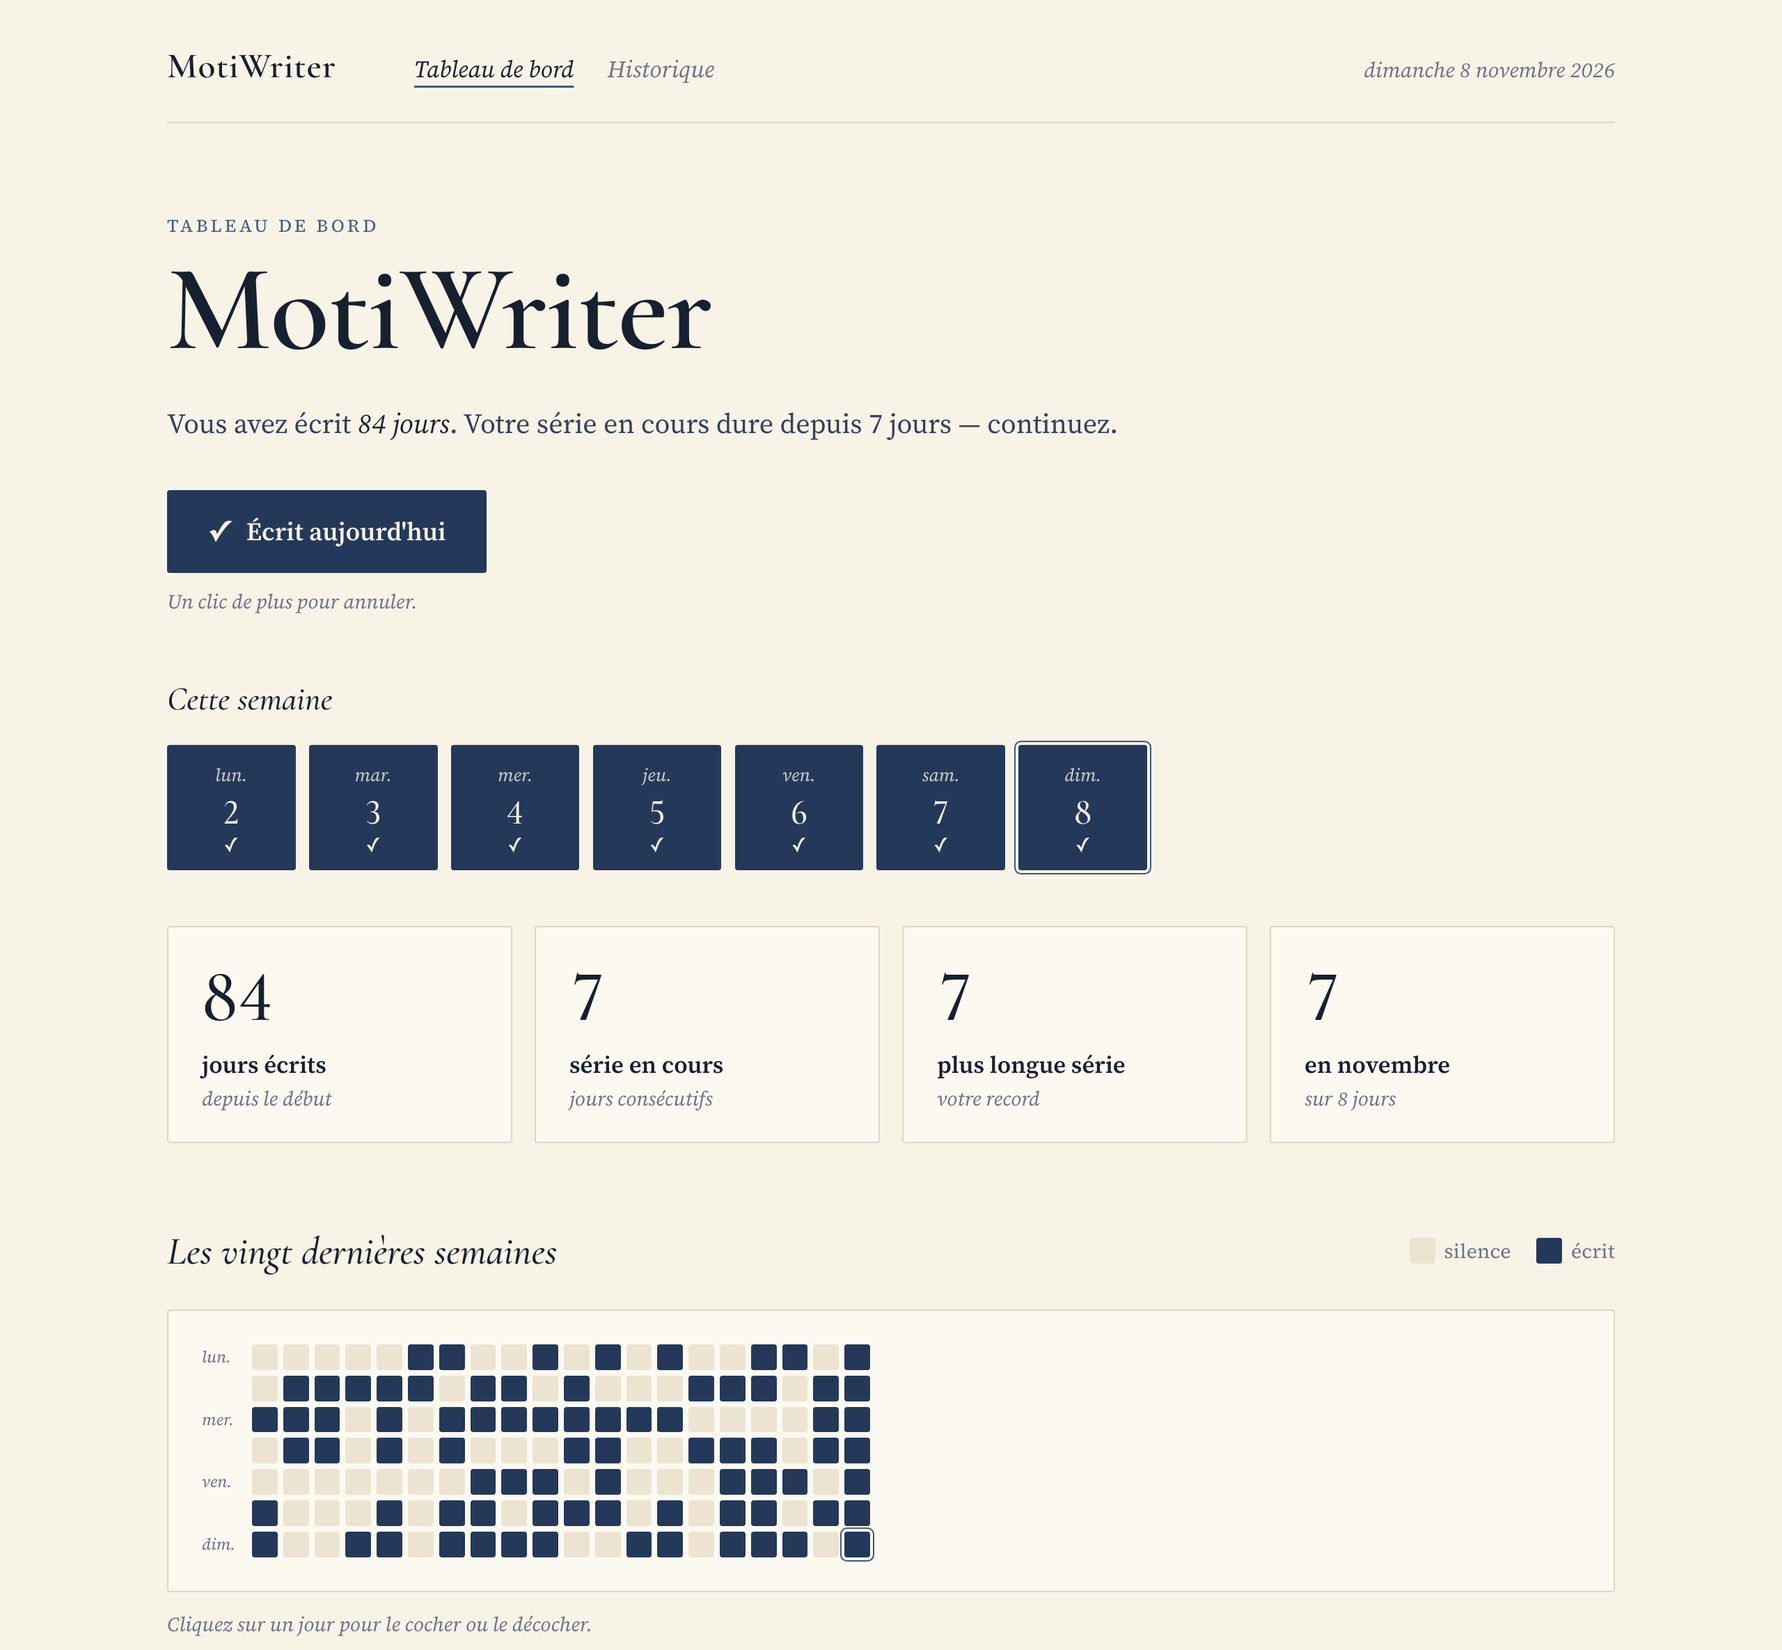
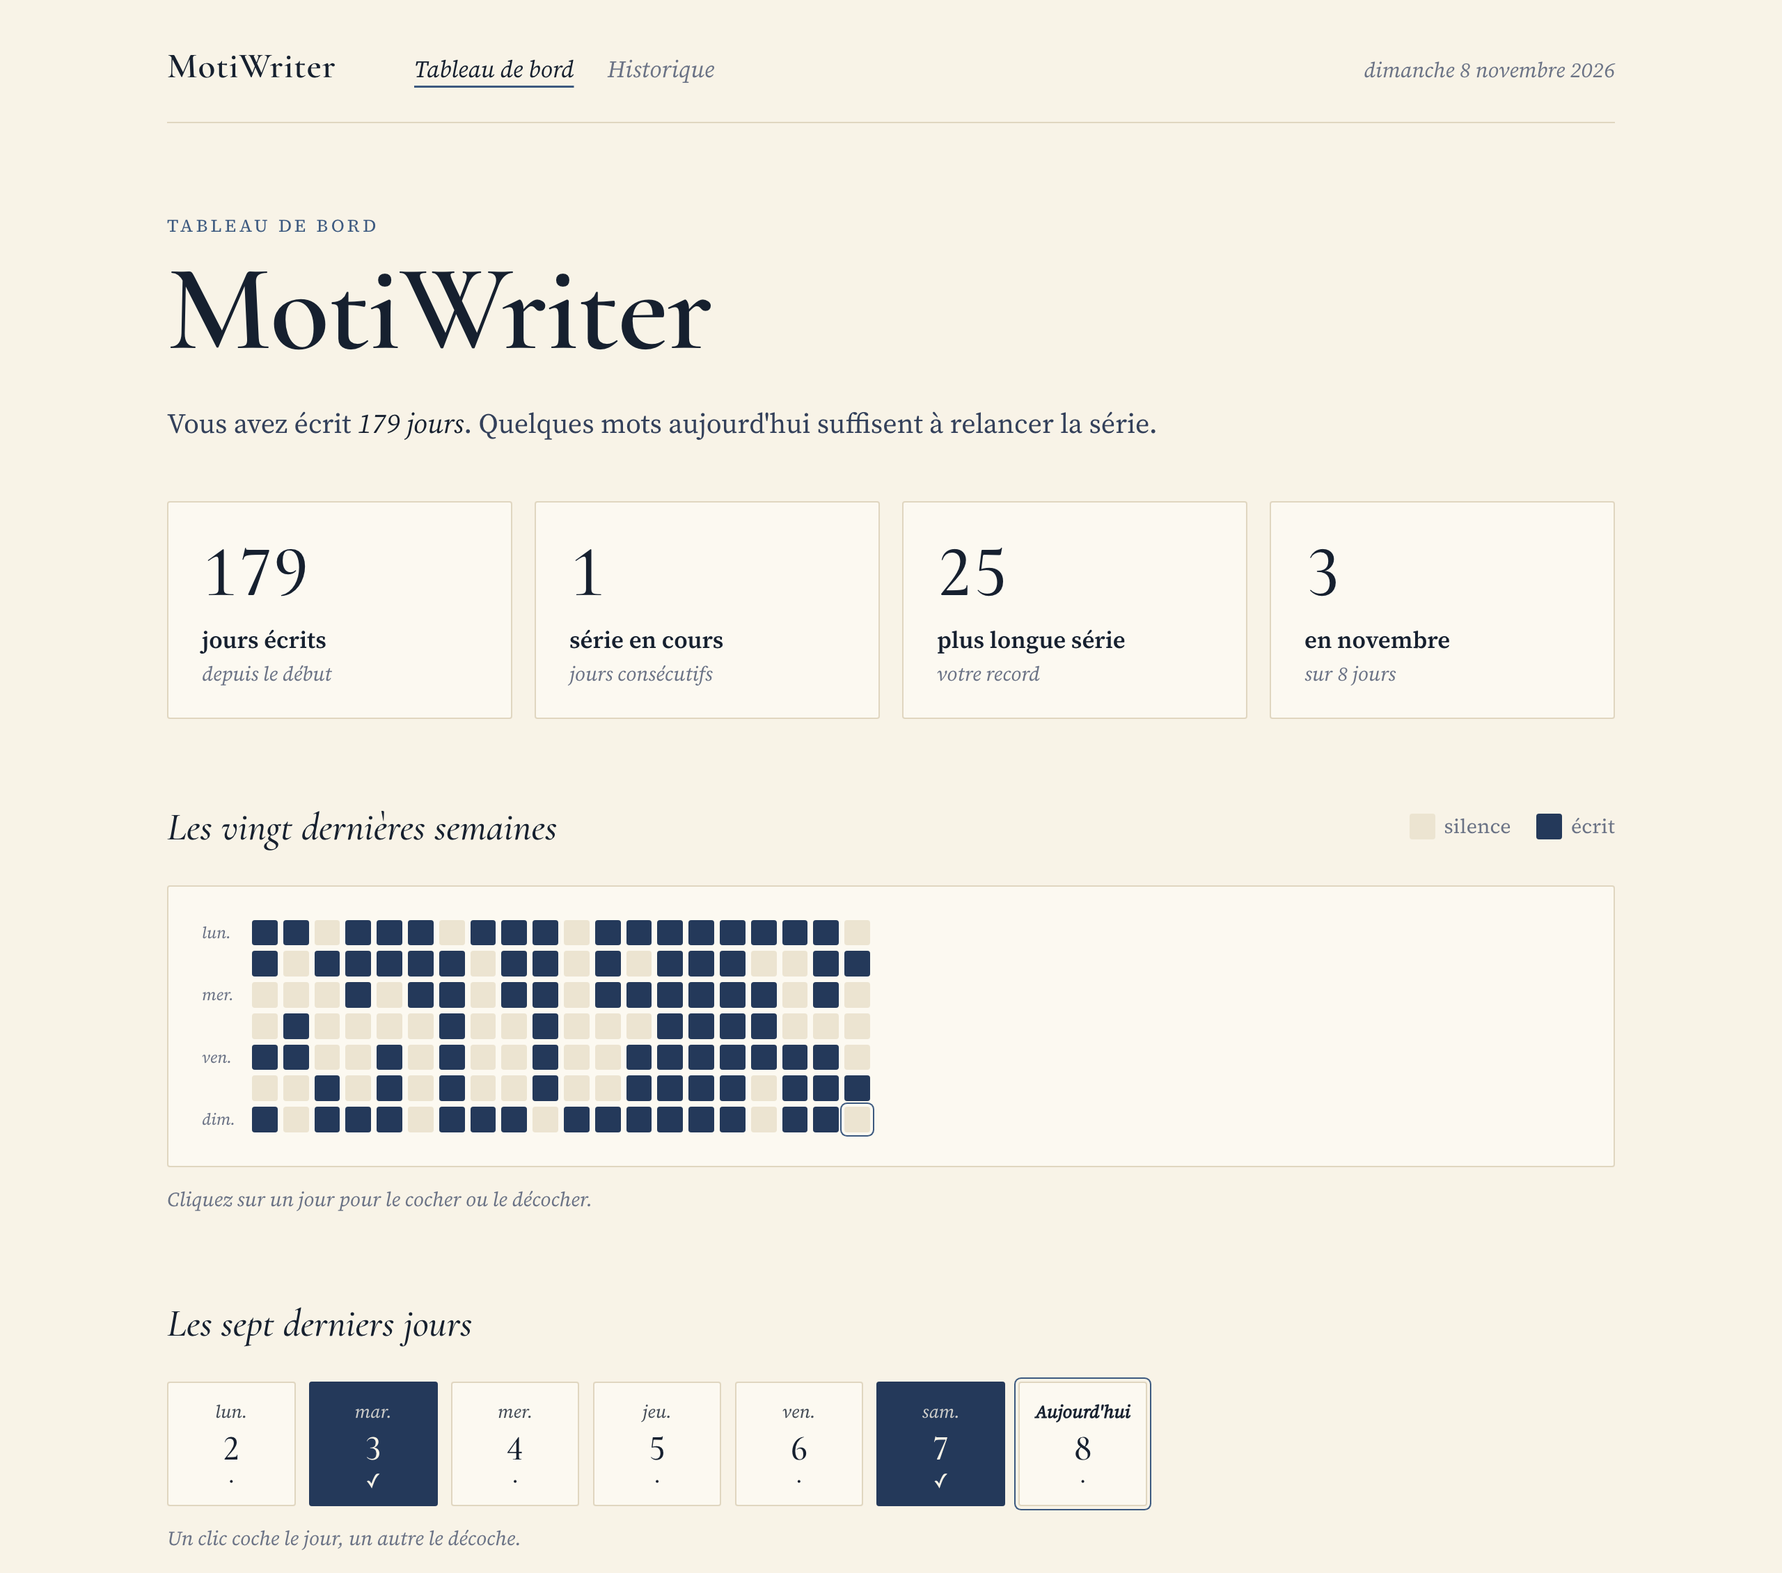
Réorganise le tableau de bord et regroupe l'historique par mois
- Le calendrier revient juste sous les quatre statistiques
- Suppression du bouton « J'ai écrit aujourd'hui » : la bande devient
  « Les sept derniers jours », du plus ancien à aujourd'hui, et sa
  dernière case s'intitule « Aujourd'hui » ; elle est placée sous le
  calendrier
- Historique : un bloc repliable par mois de modification, seul le mois
  en cours est ouvert (IWritingDayService.GetHistoryByMonthAsync)
- Tests, documentation et site de présentation mis à jour

diff --git a/src/MotiWriter.Web/Components/Pages/Historique.razor.css b/src/MotiWriter.Web/Components/Pages/Historique.razor.css
@@ -1,6 +1,5 @@
 .intro {
     padding: 4rem 0 2rem;
-    max-width: 44rem;
 }
 
 .eyebrow {
@@ -26,18 +25,77 @@ h1 {
     color: var(--ink-soft);
 }
 
-.list {
-    max-width: 44rem;
+.months {
+    display: flex;
+    flex-direction: column;
+    gap: 0.75rem;
     margin-bottom: 4rem;
-    padding: 0.5rem 1.5rem;
+}
+
+.month {
     background: var(--paper-raised);
     border: 1px solid var(--rule);
     border-radius: 2px;
 }
 
-.note {
-    margin: 1rem 0;
+summary {
+    display: flex;
+    align-items: baseline;
+    gap: 0.9rem;
+    padding: 1rem 1.5rem;
+    cursor: pointer;
+    list-style: none;
+    user-select: none;
+}
+
+    summary::-webkit-details-marker {
+        display: none;
+    }
+
+    summary:hover .name {
+        color: var(--accent);
+    }
+
+    summary:focus-visible {
+        outline: 2px solid var(--accent);
+        outline-offset: -2px;
+    }
+
+.chevron {
+    flex: none;
+    width: 0.5rem;
+    height: 0.5rem;
+    border-right: 1.5px solid var(--ink-muted);
+    border-bottom: 1.5px solid var(--ink-muted);
+    transform: translateY(-0.15rem) rotate(-45deg);
+    transition: transform 0.15s ease;
+}
+
+.month[open] .chevron {
+    transform: translateY(-0.3rem) rotate(45deg);
+}
+
+.name {
+    font-family: var(--font-display);
+    font-style: italic;
+    font-weight: 500;
+    font-size: 1.5rem;
+    color: var(--ink);
+    transition: color 0.15s ease;
+}
+
+.count {
+    margin-left: auto;
     font-style: italic;
     font-size: 0.9rem;
     color: var(--ink-muted);
+}
+
+.body {
+    padding: 0 1.5rem 0.5rem;
+    border-top: 1px solid var(--rule);
+}
+
+@media (prefers-reduced-motion: reduce) {
+    .chevron { transition: none; }
 }

diff --git a/site/index.html b/site/index.html
@@ -287,8 +287,8 @@
             </section>
 
             <figure class="preview">
-                <img src="apercu.png" width="2560" height="2370"
-                     alt="Le tableau de bord de MotiWriter : le bouton « Écrit aujourd'hui », la bande des sept jours de la semaine, quatre statistiques (jours écrits, série en cours, plus longue série, jours du mois) et un calendrier des vingt dernières semaines." />
+                <img src="apercu.png" width="2560" height="2260"
+                     alt="Le tableau de bord de MotiWriter : quatre statistiques (jours écrits, série en cours, plus longue série, jours du mois), un calendrier cliquable des vingt dernières semaines et la bande des sept derniers jours, terminée par « Aujourd'hui »." />
                 <figcaption>Le tableau de bord (données d'exemple).</figcaption>
             </figure>
 
@@ -345,7 +345,7 @@
                         <article class="card">
                             <span class="num">2</span>
                             <h3>Vous notez le jour</h3>
-                            <p>Un clic sur « J'ai écrit aujourd'hui », sans chiffre à saisir. Un oubli ? Les jours passés se rattrapent aussi.</p>
+                            <p>Un clic sur la case « Aujourd'hui », sans chiffre à saisir. Un oubli ? Les jours passés se rattrapent aussi.</p>
                         </article>
                         <article class="card">
                             <span class="num">3</span>

diff --git a/src/MotiWriter.Web/Components/Dashboard/RecentDays.razor.css b/src/MotiWriter.Web/Components/Dashboard/RecentDays.razor.css
@@ -1,13 +1,13 @@
-.week {
-    margin: 2.5rem 0 0;
+.recent {
+    margin: 3.5rem 0 0;
 }
 
 h2 {
-    margin: 0 0 0.9rem;
+    margin: 0 0 1.25rem;
     font-family: var(--font-display);
     font-weight: 500;
     font-style: italic;
-    font-size: 1.5rem;
+    font-size: 1.75rem;
     color: var(--ink);
 }
 
@@ -33,7 +33,7 @@ h2 {
     transition: background-color 0.15s ease, color 0.15s ease, border-color 0.15s ease;
 }
 
-    .day:hover:not(:disabled) {
+    .day:hover {
         border-color: var(--accent);
     }
 
@@ -52,17 +52,27 @@ h2 {
         box-shadow: 0 0 0 2px var(--paper), 0 0 0 3px var(--accent);
     }
 
-    .day:disabled {
-        cursor: default;
-        color: var(--ink-muted);
-        background: transparent;
-        border-style: dashed;
-    }
-
 .dow {
     font-size: 0.8rem;
     font-style: italic;
     opacity: 0.8;
+    white-space: nowrap;
+}
+
+.today .dow {
+    font-weight: 600;
+    opacity: 1;
+}
+
+.short {
+    display: none;
+}
+
+.note {
+    margin: 0.75rem 0 0;
+    font-style: italic;
+    font-size: 0.9rem;
+    color: var(--ink-muted);
 }
 
 .num {
@@ -83,4 +93,9 @@ h2 {
     .days { gap: 0.3rem; }
     .day { padding: 0.55rem 0 0.5rem; }
     .num { font-size: 1.3rem; }
+}
+
+@media (max-width: 36rem) {
+    .long { display: none; }
+    .short { display: inline; }
 }

diff --git a/tests/MotiWriter.Core.Tests/DashboardServiceTests.cs b/tests/MotiWriter.Core.Tests/DashboardServiceTests.cs
@@ -29,17 +29,31 @@ public class DashboardServiceTests
     }
 
     [Fact]
-    public async Task Current_week_runs_from_monday_to_sunday_and_ends_the_calendar()
+    public async Task Calendar_ends_with_the_current_week_from_monday_to_sunday()
     {
-        await _journal.SetWrittenAsync(Today.AddDays(-1), true, Now);
-
         var summary = await _service.GetSummaryAsync(weeks: 4);
 
         Assert.Equal(4, summary.Weeks.Count);
-        Assert.Same(summary.Weeks[^1], summary.CurrentWeek);
-        Assert.Equal(new DateOnly(2026, 11, 2), summary.CurrentWeek.Days[0].Date);
-        Assert.Equal(Today, summary.CurrentWeek.Days[6].Date);
-        Assert.True(summary.CurrentWeek.Days[5].Written);
+        Assert.Equal(new DateOnly(2026, 11, 2), summary.Weeks[^1].Days[0].Date);
+        Assert.Equal(Today, summary.Weeks[^1].Days[6].Date);
+    }
+
+    [Fact]
+    public async Task Last_seven_days_end_today()
+    {
+        await _journal.SetWrittenAsync(Today.AddDays(-1), true, Now);
+
+        // Mercredi 4 novembre : du jeudi 29 octobre au mercredi 4 novembre.
+        await _journal.SetWrittenAsync(new DateOnly(2026, 10, 29), true, Now);
+        var wednesday = new DashboardService(_journal, new FakeTimeProvider(Now.AddDays(-4)));
+
+        var days = (await wednesday.GetSummaryAsync()).LastSevenDays;
+
+        Assert.Equal(7, days.Count);
+        Assert.Equal(new DateOnly(2026, 10, 29), days[0].Date);
+        Assert.Equal(new DateOnly(2026, 11, 4), days[^1].Date);
+        Assert.True(days[0].Written);
+        Assert.All(days, d => Assert.False(d.IsFuture));
     }
 
     [Fact]
@@ -48,7 +62,7 @@ public class DashboardServiceTests
         // Mercredi 4 novembre : jeudi → dimanche sont à venir.
         var service = new DashboardService(_journal, new FakeTimeProvider(Now.AddDays(-4)));
 
-        var week = (await service.GetSummaryAsync(weeks: 1)).CurrentWeek;
+        var week = (await service.GetSummaryAsync(weeks: 1)).Weeks[^1];
 
         Assert.Equal([false, false, false, true, true, true, true], week.Days.Select(d => d.IsFuture));
     }

diff --git a/tests/MotiWriter.Core.Tests/WritingDayServiceTests.cs b/tests/MotiWriter.Core.Tests/WritingDayServiceTests.cs
@@ -89,4 +89,25 @@ public class WritingDayServiceTests
 
         Assert.True(change.Written);
     }
+
+    [Fact]
+    public async Task History_is_grouped_by_month_of_change_newest_first()
+    {
+        // 31 octobre, 23 h 30 à UTC+1 : encore en octobre en heure locale.
+        var clock = new FakeTimeProvider(new DateTimeOffset(2026, 10, 31, 22, 30, 0, TimeSpan.Zero));
+        clock.SetLocalTimeZone(TimeZoneInfo.CreateCustomTimeZone("UTC+1", TimeSpan.FromHours(1), "UTC+1", "UTC+1"));
+        var service = new WritingDayService(new InMemoryWritingJournal(), clock);
+        await service.ToggleAsync(new DateOnly(2026, 10, 30));
+        await service.ToggleAsync(new DateOnly(2026, 10, 31));
+
+        // Une heure plus tard : 1er novembre, 0 h 30 à UTC+1.
+        clock.Advance(TimeSpan.FromHours(1));
+        await service.ToggleAsync(new DateOnly(2026, 10, 31));
+
+        var months = await service.GetHistoryByMonthAsync();
+
+        Assert.Equal([(2026, 11), (2026, 10)], months.Select(m => (m.Year, m.Month)));
+        Assert.Single(months[0].Changes);
+        Assert.Equal([new DateOnly(2026, 10, 31), new DateOnly(2026, 10, 30)], months[1].Changes.Select(c => c.Day));
+    }
 }

diff --git a/src/MotiWriter.Core/Dashboard/DashboardSummary.cs b/src/MotiWriter.Core/Dashboard/DashboardSummary.cs
@@ -7,15 +7,13 @@ namespace MotiWriter.Core.Dashboard;
 /// <param name="WrittenToday">Vrai si aujourd'hui est déjà marqué écrit.</param>
 /// <param name="Statistics">Statistiques agrégées.</param>
 /// <param name="Weeks">Calendrier des dernières semaines (lundi → dimanche), la dernière étant la semaine en cours.</param>
+/// <param name="LastSevenDays">Les sept derniers jours, du plus ancien à aujourd'hui inclus.</param>
 public sealed record DashboardSummary(
     DateOnly Today,
     bool WrittenToday,
     WritingStatistics Statistics,
-    IReadOnlyList<CalendarWeek> Weeks)
-{
-    /// <summary>La semaine en cours (lundi → dimanche).</summary>
-    public CalendarWeek CurrentWeek => Weeks[^1];
-}
+    IReadOnlyList<CalendarWeek> Weeks,
+    IReadOnlyList<CalendarDay> LastSevenDays);
 
 public sealed record CalendarWeek(IReadOnlyList<CalendarDay> Days);
 

diff --git a/src/MotiWriter.Core/Journal/WritingDayService.cs b/src/MotiWriter.Core/Journal/WritingDayService.cs
@@ -27,6 +27,17 @@ public sealed class WritingDayService(IWritingJournal journal, TimeProvider time
         return journal.GetHistoryAsync(limit, cancellationToken);
     }
 
+    public async Task<IReadOnlyList<HistoryMonth>> GetHistoryByMonthAsync(int limit = 10_000, CancellationToken cancellationToken = default)
+    {
+        var history = await GetHistoryAsync(limit, cancellationToken);
+
+        // L'historique arrive déjà du plus récent au plus ancien : GroupBy conserve cet ordre.
+        return history
+            .GroupBy(c => (c.ChangedAt.Year, c.ChangedAt.Month))
+            .Select(g => new HistoryMonth(g.Key.Year, g.Key.Month, g.ToList()))
+            .ToList();
+    }
+
     private static void EnsureNotInFuture(DateOnly day, DateTimeOffset now)
     {
         var today = DateOnly.FromDateTime(now.DateTime);

diff --git a/src/MotiWriter.Core/Dashboard/DashboardService.cs b/src/MotiWriter.Core/Dashboard/DashboardService.cs
@@ -16,8 +16,15 @@ public sealed class DashboardService(IWritingJournal journal, TimeProvider timeP
             today,
             days.Contains(today),
             WritingStatisticsCalculator.Compute(days, today),
-            BuildCalendar(days, today, weeks));
+            BuildCalendar(days, today, weeks),
+            BuildLastDays(days, today, count: 7));
     }
+
+    private static List<CalendarDay> BuildLastDays(IReadOnlySet<DateOnly> days, DateOnly today, int count) =>
+        Enumerable.Range(0, count)
+            .Select(i => today.AddDays(i - count + 1))
+            .Select(date => new CalendarDay(date, days.Contains(date), IsFuture: false))
+            .ToList();
 
     private static List<CalendarWeek> BuildCalendar(IReadOnlySet<DateOnly> days, DateOnly today, int weeks)
     {

diff --git a/src/MotiWriter.Web/Formatting/FrenchDates.cs b/src/MotiWriter.Web/Formatting/FrenchDates.cs
@@ -41,6 +41,13 @@ public static class FrenchDates
             : $"{label} — non écrit · cliquer pour marquer écrit";
     }
 
+    /// <summary>« Novembre 2026 ».</summary>
+    public static string Month(int year, int month) =>
+        Capitalize(new DateOnly(year, month, 1).ToString("MMMM yyyy", French));
+
+    /// <summary>« 1 modification », « 12 modifications ».</summary>
+    public static string Changes(int count) => count > 1 ? $"{count} modifications" : $"{count} modification";
+
     /// <summary>« 1 jour », « 97 jours ».</summary>
     public static string Days(int count) => count > 1 ? $"{count} jours" : $"{count} jour";
 

diff --git a/src/MotiWriter.Core/Journal/IWritingDayService.cs b/src/MotiWriter.Core/Journal/IWritingDayService.cs
@@ -14,4 +14,10 @@ public interface IWritingDayService
 
     /// <summary>Dernières modifications, de la plus récente à la plus ancienne.</summary>
     Task<IReadOnlyList<WritingDayChange>> GetHistoryAsync(int limit = 50, CancellationToken cancellationToken = default);
+
+    /// <summary>
+    /// Historique regroupé par mois de modification (selon l'heure locale enregistrée),
+    /// du mois le plus récent au plus ancien.
+    /// </summary>
+    Task<IReadOnlyList<HistoryMonth>> GetHistoryByMonthAsync(int limit = 10_000, CancellationToken cancellationToken = default);
 }

diff --git a/src/MotiWriter.Core/Journal/HistoryMonth.cs b/src/MotiWriter.Core/Journal/HistoryMonth.cs
@@ -1,0 +1,10 @@
+namespace MotiWriter.Core.Journal;
+
+/// <summary>Les modifications effectuées pendant un mois donné, de la plus récente à la plus ancienne.</summary>
+/// <param name="Year">Année de la modification.</param>
+/// <param name="Month">Mois de la modification (1 à 12).</param>
+/// <param name="Changes">Modifications du mois, de la plus récente à la plus ancienne.</param>
+public sealed record HistoryMonth(int Year, int Month, IReadOnlyList<WritingDayChange> Changes)
+{
+    public bool Is(DateOnly day) => day.Year == Year && day.Month == Month;
+}

diff --git a/docs/architecture.md b/docs/architecture.md
@@ -43,9 +43,9 @@ La solution utilise le format `MotiWriter.slnx`. Le SDK est fixé par `global.js
 
 | Dossier | Contenu |
 |---|---|
-| `Journal/` | `IWritingJournal` : contrat de **stockage** (lire les jours, fixer l'état d'un jour, lire l'historique). `IWritingDayService` / `WritingDayService` : **saisie** (cocher, décocher, inverser, historique) avec les règles métier. `WritingDayChange` : une entrée d'historique. `InMemoryWritingJournal` : implémentation en mémoire pour les tests. |
+| `Journal/` | `IWritingJournal` : contrat de **stockage** (lire les jours, fixer l'état d'un jour, lire l'historique). `IWritingDayService` / `WritingDayService` : **saisie** (cocher, décocher, inverser) et **historique** (liste, ou regroupé par mois avec `HistoryMonth`), avec les règles métier. `WritingDayChange` : une entrée d'historique. `InMemoryWritingJournal` : implémentation en mémoire pour les tests. |
 | `Statistics/` | `WritingStatistics` (record) et `WritingStatisticsCalculator` : **calcul pur**, sans effet de bord, qui prend un ensemble de dates et « aujourd'hui ». |
-| `Dashboard/` | `IDashboardService` / `DashboardService` : assemble tout ce que la page d'accueil affiche dans un seul objet `DashboardSummary` (aujourd'hui écrit ou non, statistiques, calendrier des N dernières semaines, semaine en cours). |
+| `Dashboard/` | `IDashboardService` / `DashboardService` : assemble tout ce que la page d'accueil affiche dans un seul objet `DashboardSummary` (aujourd'hui écrit ou non, statistiques, calendrier des N dernières semaines, sept derniers jours). |
 | `ServiceCollectionExtensions.cs` | `AddMotiWriterCore()` : enregistre les services métier et `TimeProvider.System`. |
 
 Règles métier :
@@ -98,11 +98,11 @@ La base est en mode WAL.
 - `Components/Layout/MainLayout.razor` : bandeau (marque, navigation, date), contenu, colophon.
 - `Components/Pages/Home.razor` : tableau de bord, **interactif** (Blazor Server). Il porte l'état
   de la page : résumé et cinq dernières modifications, rechargés après chaque clic.
-- `Components/Pages/Historique.razor` : historique complet (500 dernières modifications), rendu statique.
+- `Components/Pages/Historique.razor` : historique complet, un bloc `<details>` repliable par mois
+  (seul le mois en cours est ouvert), rendu statique, sans JavaScript.
 - `Components/Dashboard/` : composants du tableau de bord, sans logique métier, qui signalent
   les clics par un `EventCallback<DateOnly>` :
-  `TodayToggle` (bouton du jour), `WeekStrip` (« Cette semaine »), `WritingCalendar`
-  (calendrier cliquable), `HistoryList`.
+  `WritingCalendar` (calendrier cliquable), `RecentDays` (« Les sept derniers jours »), `HistoryList`.
 - `Formatting/FrenchDates.cs` : toutes les formulations françaises (« samedi 1er novembre »,
   « 19 h 42 », phrases d'historique, libellés accessibles).
 - `wwwroot/app.css` : variables de la [charte graphique](charte-graphique.md) et styles globaux.
